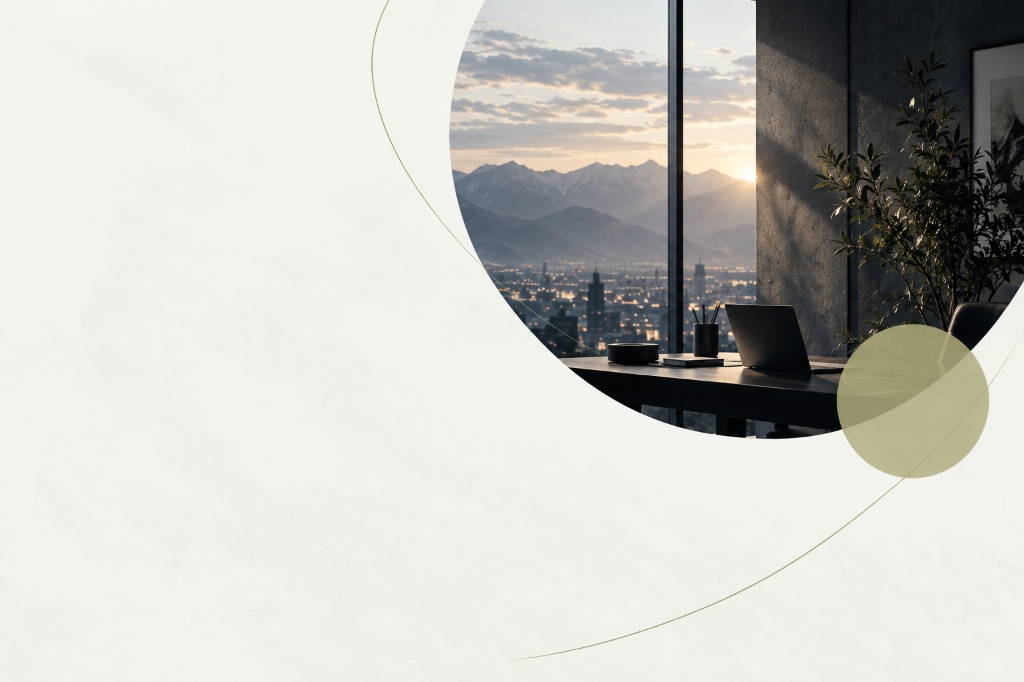
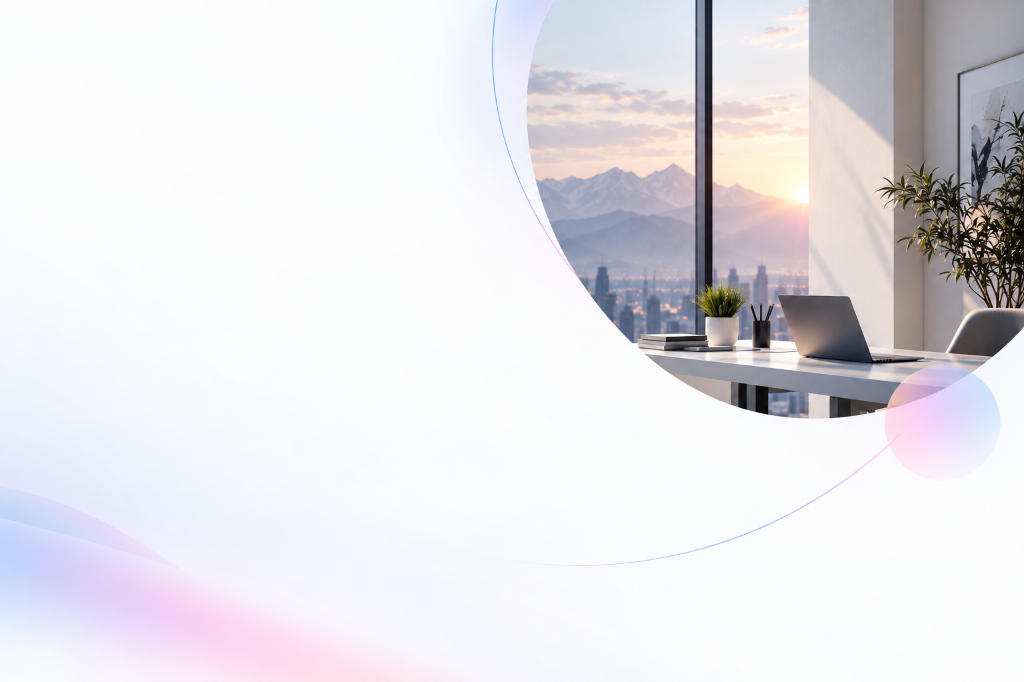
feat: set uploaded custom artwork as background for Section 2 EditorialTrustSection

diff --git a/components/sections/EditorialTrustSection.tsx b/components/sections/EditorialTrustSection.tsx
@@ -16,15 +16,15 @@ export const EditorialTrustSection: React.FC = () => {
       {/* Editorial Studio Art Background with Mountain Sunset Vista */}
       <div className="absolute inset-0 z-0">
         <Image
-          src="/images/editorial-positioning-theme.jpg"
+          src="/images/editorial-positioning-bg.png"
           alt="KreaitX Creative Technology Studio & Mountain Sunset Vista"
           fill
           priority
           sizes="100vw"
-          className="object-cover object-right md:object-center select-none opacity-95"
+          className="object-cover object-right md:object-center select-none"
         />
-        {/* Atmospheric gradient for crisp typography contrast */}
-        <div className="absolute inset-0 bg-gradient-to-r from-slate-50/95 via-slate-50/80 to-transparent lg:from-slate-50/60 lg:via-transparent lg:to-transparent" />
+        {/* Atmospheric gradient for crisp typography contrast on smaller screens */}
+        <div className="absolute inset-0 bg-gradient-to-r from-white/95 via-white/70 to-transparent lg:from-transparent lg:via-transparent lg:to-transparent" />
       </div>
 
       <Container size="default" className="relative z-10 w-full max-w-[1280px]">
